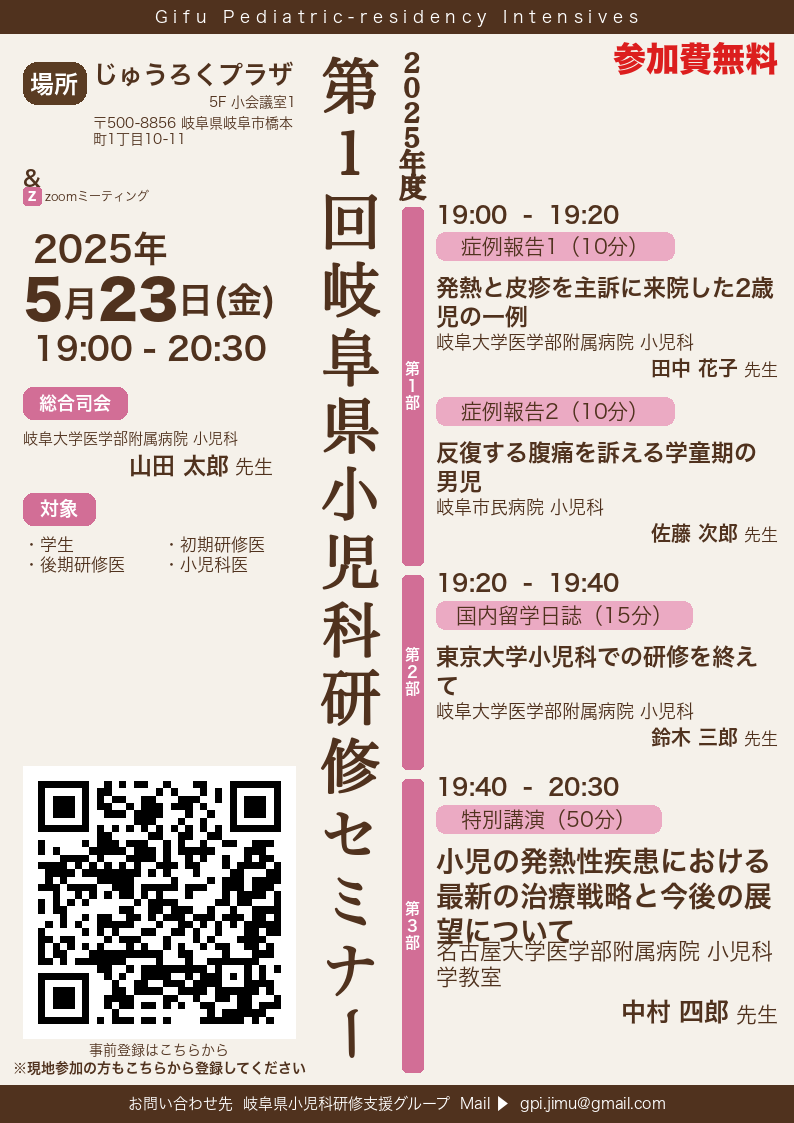
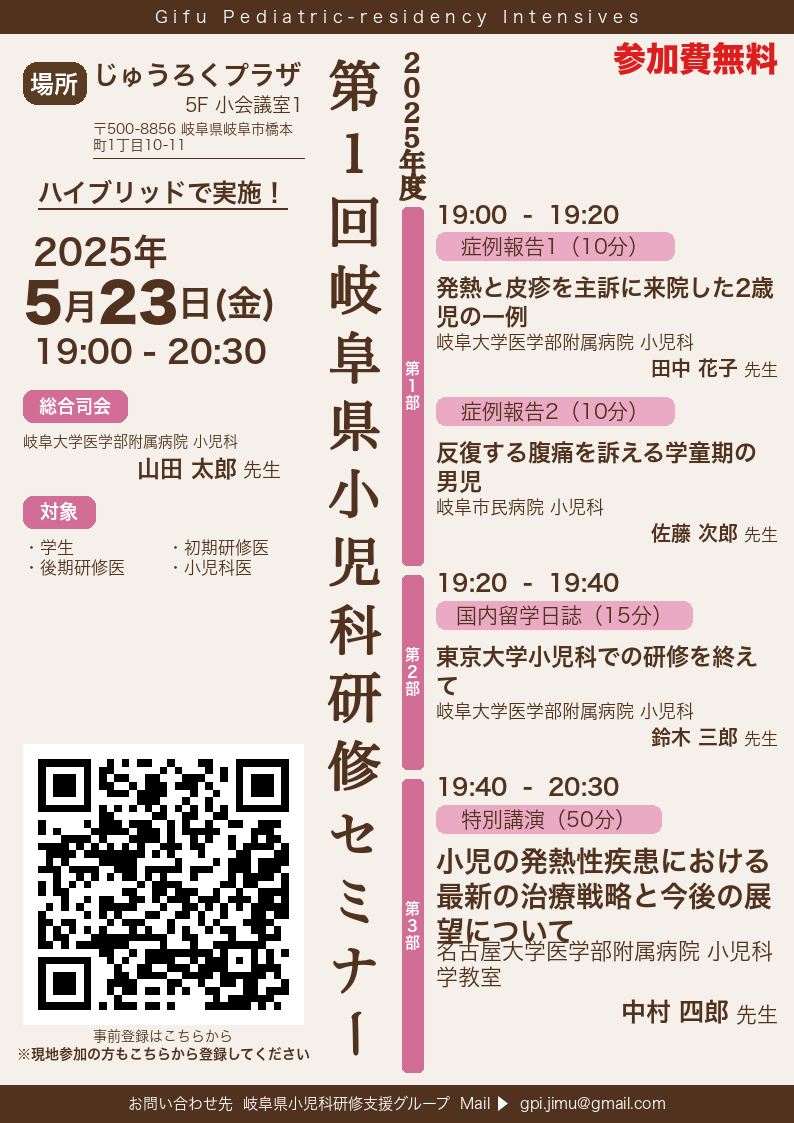
Update poster rendering to enhance venue information display with improved font handling and added address separator. Adjust layout constants for better alignment and spacing in the poster design.

diff --git a/poster/elements_pillow.py b/poster/elements_pillow.py
@@ -126,10 +126,11 @@ def draw_venue_info(draw: ImageDraw.ImageDraw,
         h1 = int(bh * 1.25)
     cur_y += h1
 
-    # 部屋名（右寄せ）
+    # 部屋名（右寄せ・やや大きめ）
     if room:
-        lines = wrap_text_jp(draw, room, font_r, w)
-        h2 = draw_text_multiline(draw, lines, font_r, x, cur_y, DARK_BROWN, 1.2,
+        font_room = get_pillow_font("Regular", max(8, int(fs_sm * 1.4)))
+        lines = wrap_text_jp(draw, room, font_room, w)
+        h2 = draw_text_multiline(draw, lines, font_room, x, cur_y, DARK_BROWN, 1.2,
                                   align="right", max_w=w)
         cur_y += h2
 
@@ -139,10 +140,14 @@ def draw_venue_info(draw: ImageDraw.ImageDraw,
 def draw_address(draw: ImageDraw.ImageDraw,
                  x: int, y: int, w: int,
                  address: str, fs: int) -> int:
-    """住所を描画。返値: 使用した高さ"""
+    """住所を描画。住所エリア下に区切り線を引く。返値: 使用した高さ"""
     font = get_pillow_font("Regular", fs)
     lines = wrap_text_jp(draw, address, font, w)
-    return draw_text_multiline(draw, lines, font, x, y, DARK_BROWN, 1.2)
+    h = draw_text_multiline(draw, lines, font, x, y, DARK_BROWN, 1.2)
+    # 住所エリア下に横線（区切り線）
+    line_y = y + h + max(3, int(fs * 0.4))
+    draw.line([(x, line_y), (x + w, line_y)], fill=DARK_BROWN, width=1)
+    return line_y + 2 - y
 
 
 # ─── Zoom セクション ───────────────────────────────────────────────────────
@@ -151,43 +156,19 @@ def draw_zoom_section(draw: ImageDraw.ImageDraw,
                        x: int, y: int, w: int,
                        fs: int, zoom_note: str, theme: dict) -> int:
     """
-    「& zoom ミーティング [icon]」セクションを描画。
+    「ハイブリッド配信あり」を下線付きで描画。
     返値: 使用した高さ（px）
     """
-    color = theme.get("zoom_color", (80, 160, 200))
-    fs_amp = int(fs * 1.5)
-    fs_note = int(fs * 0.90)
-
-    font_amp  = get_pillow_font("Bold", fs_amp)
-    font_zoom = get_pillow_font("Bold", fs_note)
-    font_note = get_pillow_font("Regular", fs_note)
-
-    # "&" 記号
-    draw.text((x, y), "&", fill=DARK_BROWN, font=font_amp)
-    _, amp_h = get_text_size(draw, "&", font_amp)
-    line2_y = y + amp_h + 2
-
-    # Zoom アイコン（色付き角丸正方形に "Z" 文字）
-    icon_sz = int(fs_note * 1.5)
-    r = max(3, icon_sz // 5)
-    try:
-        draw.rounded_rectangle([x, line2_y, x + icon_sz, line2_y + icon_sz],
-                                radius=r, fill=color)
-    except AttributeError:
-        draw.rectangle([x, line2_y, x + icon_sz, line2_y + icon_sz], fill=color)
-    font_z = get_pillow_font("Black", int(icon_sz * 0.65))
-    draw_centered_text(draw, "Z", font_z,
-                        x + icon_sz // 2, line2_y + icon_sz // 2, WHITE)
-
-    # zoom テキスト
-    note_text = zoom_note.lstrip("&").strip() if zoom_note else "zoomミーティング"
-    tx = x + icon_sz + int(fs * 0.35)
-    ty = line2_y + (icon_sz - fs_note) // 2
-    avail_w = w - icon_sz - int(fs * 0.35)
-    lines = wrap_text_jp(draw, note_text, font_note, avail_w)
-    draw_text_multiline(draw, lines, font_note, tx, ty, DARK_BROWN, 1.2)
-
-    return line2_y + icon_sz - y + int(fs * 0.2)
+    text = "ハイブリッドで実施！"
+    font_size = max(10, int(fs * 1.8))
+    font = get_pillow_font("Bold", font_size)
+    indent = max(5, int(font_size * 0.6))
+    tw, th = get_text_size(draw, text, font)
+    draw.text((x + indent, y), text, fill=DARK_BROWN, font=font)
+    # 下線
+    line_y = y + th + 2
+    draw.line([(x + indent, line_y), (x + indent + tw, line_y)], fill=DARK_BROWN, width=2)
+    return line_y + 2 - y
 
 
 # ─── 左カラム: 日付・時刻 ─────────────────────────────────────────────────

diff --git a/poster/layout.py b/poster/layout.py
@@ -39,12 +39,12 @@ FOOTER_H = 0.034   # 下部バー高さ
 # ※ 縦バーは廃止。タイトル帯がその役割を担う。
 
 # 左カラム: 場所・日時・司会・QR
-LEFT_W  = 0.385   # 左カラム幅
+LEFT_W  = 0.395   # 左カラム幅
 
 # 縦書きメインタイトル帯（「第N回岐阜県小児科研修セミナー」）
-# ポスター中央（50%）より少し左 38.5〜50% に配置
-TITLE_X = 0.385   # メインタイトル帯左端 X（= 左カラム右端）
-TITLE_W = 0.115   # メインタイトル帯幅
+# ポスター中央（50%）より少し左 39.5〜50% に配置
+TITLE_X = 0.395   # メインタイトル帯左端 X（= 左カラム右端）
+TITLE_W = 0.105   # メインタイトル帯幅
 
 # 右ストリップ（「2025年度」+ 第N部ラベルボックス）
 SECT_X  = TITLE_X + TITLE_W   # = 0.500（ポスター中央）

diff --git a/poster/preview_renderer.py b/poster/preview_renderer.py
@@ -193,7 +193,7 @@ def render_poster(data: PosterData, scale: float = 1.0) -> Image.Image:
     cap_line_gap = int(cap_h * 0.3)
     total_cap_h = cap_h * 2 + cap_line_gap
 
-    qr_bottom = footer_y - ph(0.008) - total_cap_h - ph(0.006)
+    qr_bottom = footer_y - ph(0.020) - total_cap_h - ph(0.006)
     max_qr = qr_bottom - cur_y - ph(0.005)
     qr_size = max(ph(0.08), min(lc_w, max_qr))
 
